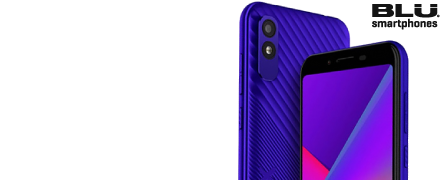
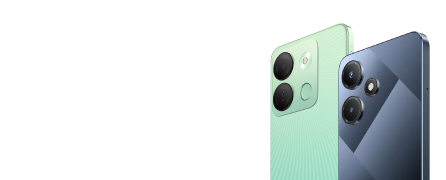
Ajustes - secciones - marcas

diff --git a/components/partials/home/brand-section.jsx b/components/partials/home/brand-section.jsx
@@ -9,7 +9,7 @@ function BrandSection () {
             <div className="container">
                 <h2 className="title title-line title-underline">Marcas En Las Que Confiamos</h2>
 
-                <div className="row cols-lg-6 cols-md-4 cols-sm-3 cols-2 gutter-xs">
+                <div className="row cols-lg-3 cols-md-4 cols-sm-3 cols-2 gutter-xs">
                     <div className="image-wrap">
                         <figure>
                             <ALink href="#">
@@ -36,32 +36,32 @@ function BrandSection () {
                             </ALink>
                         </figure>
                     </div>
-                    <div className="image-wrap">
-                        <figure>
-                            <ALink href="#">
-                                <LazyLoadImage
-                                    src="images/home/brand/3.jpg"
-                                    alt="Brand"
-                                    width="228"
-                                    height="100"
-                                    effect="opacity"
-                                />
-                            </ALink>
-                        </figure>
-                    </div>
-                    <div className="image-wrap">
-                        <figure>
-                            <ALink href="#">
-                                <LazyLoadImage
-                                    src="images/home/brand/4.jpg"
-                                    alt="Brand"
-                                    width="228"
-                                    height="100"
-                                    effect="opacity"
-                                />
-                            </ALink>
-                        </figure>
-                    </div>
+                    {/*<div className="image-wrap">*/}
+                    {/*    <figure>*/}
+                    {/*        <ALink href="#">*/}
+                    {/*            <LazyLoadImage*/}
+                    {/*                src="images/home/brand/3.jpg"*/}
+                    {/*                alt="Brand"*/}
+                    {/*                width="228"*/}
+                    {/*                height="100"*/}
+                    {/*                effect="opacity"*/}
+                    {/*            />*/}
+                    {/*        </ALink>*/}
+                    {/*    </figure>*/}
+                    {/*</div>*/}
+                    {/*<div className="image-wrap">*/}
+                    {/*    <figure>*/}
+                    {/*        <ALink href="#">*/}
+                    {/*            <LazyLoadImage*/}
+                    {/*                src="images/home/brand/4.jpg"*/}
+                    {/*                alt="Brand"*/}
+                    {/*                width="228"*/}
+                    {/*                height="100"*/}
+                    {/*                effect="opacity"*/}
+                    {/*            />*/}
+                    {/*        </ALink>*/}
+                    {/*    </figure>*/}
+                    {/*</div>*/}
                     <div className="image-wrap">
                         <figure>
                             <ALink href="#">
@@ -75,84 +75,84 @@ function BrandSection () {
                             </ALink>
                         </figure>
                     </div>
-                    <div className="image-wrap">
-                        <figure>
-                            <ALink href="#">
-                                <LazyLoadImage
-                                    src="images/home/brand/6.jpg"
-                                    alt="Brand"
-                                    width="228"
-                                    height="100"
-                                    effect="opacity"
-                                />
-                            </ALink>
-                        </figure>
-                    </div>
-                    <div className="image-wrap">
-                        <figure>
-                            <ALink href="#">
-                                <LazyLoadImage
-                                    src="images/home/brand/7.jpg"
-                                    alt="Brand"
-                                    width="228"
-                                    height="100"
-                                    effect="opacity"
-                                />
-                            </ALink>
-                        </figure>
-                    </div>
-                    <div className="image-wrap">
-                        <figure>
-                            <ALink href="#">
-                                <LazyLoadImage
-                                    src="images/home/brand/8.jpg"
-                                    alt="Brand"
-                                    width="228"
-                                    height="100"
-                                    effect="opacity"
-                                />
-                            </ALink>
-                        </figure>
-                    </div>
-                    <div className="image-wrap">
-                        <figure>
-                            <ALink href="#">
-                                <LazyLoadImage
-                                    src="images/home/brand/9.jpg"
-                                    alt="Brand"
-                                    width="228"
-                                    height="100"
-                                    effect="opacity"
-                                />
-                            </ALink>
-                        </figure>
-                    </div>
-                    <div className="image-wrap">
-                        <figure>
-                            <ALink href="#">
-                                <LazyLoadImage
-                                    src="images/home/brand/11.jpg"
-                                    alt="Brand"
-                                    width="228"
-                                    height="100"
-                                    effect="opacity"
-                                />
-                            </ALink>
-                        </figure>
-                    </div>
-                    <div className="image-wrap">
-                        <figure>
-                            <ALink href="#">
-                                <LazyLoadImage
-                                    src="images/home/brand/10.jpg"
-                                    alt="Brand"
-                                    width="228"
-                                    height="100"
-                                    effect="opacity"
-                                />
-                            </ALink>
-                        </figure>
-                    </div>
+                    {/*<div className="image-wrap">*/}
+                    {/*    <figure>*/}
+                    {/*        <ALink href="#">*/}
+                    {/*            <LazyLoadImage*/}
+                    {/*                src="images/home/brand/6.jpg"*/}
+                    {/*                alt="Brand"*/}
+                    {/*                width="228"*/}
+                    {/*                height="100"*/}
+                    {/*                effect="opacity"*/}
+                    {/*            />*/}
+                    {/*        </ALink>*/}
+                    {/*    </figure>*/}
+                    {/*</div>*/}
+                    {/*<div className="image-wrap">*/}
+                    {/*    <figure>*/}
+                    {/*        <ALink href="#">*/}
+                    {/*            <LazyLoadImage*/}
+                    {/*                src="images/home/brand/7.jpg"*/}
+                    {/*                alt="Brand"*/}
+                    {/*                width="228"*/}
+                    {/*                height="100"*/}
+                    {/*                effect="opacity"*/}
+                    {/*            />*/}
+                    {/*        </ALink>*/}
+                    {/*    </figure>*/}
+                    {/*</div>*/}
+                    {/*<div className="image-wrap">*/}
+                    {/*    <figure>*/}
+                    {/*        <ALink href="#">*/}
+                    {/*            <LazyLoadImage*/}
+                    {/*                src="images/home/brand/8.jpg"*/}
+                    {/*                alt="Brand"*/}
+                    {/*                width="228"*/}
+                    {/*                height="100"*/}
+                    {/*                effect="opacity"*/}
+                    {/*            />*/}
+                    {/*        </ALink>*/}
+                    {/*    </figure>*/}
+                    {/*</div>*/}
+                    {/*<div className="image-wrap">*/}
+                    {/*    <figure>*/}
+                    {/*        <ALink href="#">*/}
+                    {/*            <LazyLoadImage*/}
+                    {/*                src="images/home/brand/9.jpg"*/}
+                    {/*                alt="Brand"*/}
+                    {/*                width="228"*/}
+                    {/*                height="100"*/}
+                    {/*                effect="opacity"*/}
+                    {/*            />*/}
+                    {/*        </ALink>*/}
+                    {/*    </figure>*/}
+                    {/*</div>*/}
+                    {/*<div className="image-wrap">*/}
+                    {/*    <figure>*/}
+                    {/*        <ALink href="#">*/}
+                    {/*            <LazyLoadImage*/}
+                    {/*                src="images/home/brand/11.jpg"*/}
+                    {/*                alt="Brand"*/}
+                    {/*                width="228"*/}
+                    {/*                height="100"*/}
+                    {/*                effect="opacity"*/}
+                    {/*            />*/}
+                    {/*        </ALink>*/}
+                    {/*    </figure>*/}
+                    {/*</div>*/}
+                    {/*<div className="image-wrap">*/}
+                    {/*    <figure>*/}
+                    {/*        <ALink href="#">*/}
+                    {/*            <LazyLoadImage*/}
+                    {/*                src="images/home/brand/10.jpg"*/}
+                    {/*                alt="Brand"*/}
+                    {/*                width="228"*/}
+                    {/*                height="100"*/}
+                    {/*                effect="opacity"*/}
+                    {/*            />*/}
+                    {/*        </ALink>*/}
+                    {/*    </figure>*/}
+                    {/*</div>*/}
                     {/*<div className="image-wrap">*/}
                     {/*    <figure>*/}
                     {/*        <ALink href="#">*/}

diff --git a/components/common/partials/main-menu.jsx b/components/common/partials/main-menu.jsx
@@ -34,43 +34,43 @@ function MainMenu () {
                     </div>
 
             </div>
-            <div className="category category-icon">
-                <ALink href={ { pathname: "/shop", query: { brands: "blu" } } }>
-                    <figure className="categroy-media">
-                        <LazyLoadImage
-                            src="images/home/category/2.png"
-                            alt="Category"
-                            width="100"
-                            height="100"
-                        />
-                    </figure>
-                    <div className="category-content">
-                        <ALink href={ { pathname: "/shop", query: { tag: "celulares-blu" } } } >
-                        <h4 className="category-name">Celulares</h4>
-                        </ALink>
-                            <ALink href={ { pathname: "/shop", query: { tag: "accesorios-blu" } } } >
-                        <h4 className="category-name">Accesorios</h4>
-                            </ALink>
-                    </div>
-                </ALink>
-            </div>
-            <div className="category category-icon">
-                <ALink href={ { pathname: "/shop", query: { brands: "doogee" } } }>
-                    <figure className="categroy-media">
-                        <LazyLoadImage
-                            src="images/home/category/6.png"
-                            alt="Category"
-                            width="100"
-                            height="100"
-                        />
-                    </figure>
-                    <div className="category-content">
-                        <ALink href={ { pathname: "/shop", query: { tag: "celulares-doogee" } } } >
-                        <h4 className="category-name">Celulares</h4>
-                    </ALink>
-                    </div>
-                </ALink>
-            </div>
+            {/*<div className="category category-icon">*/}
+            {/*    <ALink href={ { pathname: "/shop", query: { brands: "blu" } } }>*/}
+            {/*        <figure className="categroy-media">*/}
+            {/*            <LazyLoadImage*/}
+            {/*                src="images/home/category/2.png"*/}
+            {/*                alt="Category"*/}
+            {/*                width="100"*/}
+            {/*                height="100"*/}
+            {/*            />*/}
+            {/*        </figure>*/}
+            {/*        <div className="category-content">*/}
+            {/*            <ALink href={ { pathname: "/shop", query: { tag: "celulares-blu" } } } >*/}
+            {/*            <h4 className="category-name">Celulares</h4>*/}
+            {/*            </ALink>*/}
+            {/*                <ALink href={ { pathname: "/shop", query: { tag: "accesorios-blu" } } } >*/}
+            {/*            <h4 className="category-name">Accesorios</h4>*/}
+            {/*                </ALink>*/}
+            {/*        </div>*/}
+            {/*    </ALink>*/}
+            {/*</div>*/}
+            {/*<div className="category category-icon">*/}
+            {/*    <ALink href={ { pathname: "/shop", query: { brands: "doogee" } } }>*/}
+            {/*        <figure className="categroy-media">*/}
+            {/*            <LazyLoadImage*/}
+            {/*                src="images/home/category/6.png"*/}
+            {/*                alt="Category"*/}
+            {/*                width="100"*/}
+            {/*                height="100"*/}
+            {/*            />*/}
+            {/*        </figure>*/}
+            {/*        <div className="category-content">*/}
+            {/*            <ALink href={ { pathname: "/shop", query: { tag: "celulares-doogee" } } } >*/}
+            {/*            <h4 className="category-name">Celulares</h4>*/}
+            {/*        </ALink>*/}
+            {/*        </div>*/}
+            {/*    </ALink>*/}
+            {/*</div>*/}
             <div className="category category-icon">
                 <ALink href={ { pathname: "/shop", query: { brands: "xiaomi" } } }>
                     <figure className="categroy-media">
@@ -91,23 +91,23 @@ function MainMenu () {
                     </div>
                 </ALink>
             </div>
-            <div className="category category-icon">
-                <ALink href={ { pathname: "/shop", query: { brands: "tecno" } } }>
-                    <figure className="categroy-media">
-                        <LazyLoadImage
-                            src="images/home/category/4.png"
-                            alt="Category"
-                            width="100"
-                            height="100"
-                        />
-                    </figure>
-                    <div className="category-content">
-                        <ALink href={ { pathname: "/shop", query: { tag: "celulares-tecno" } } } >
-                        <h4 className="category-name">Celulares</h4>
-                </ALink>
-                    </div>
-                </ALink>
-            </div>
+            {/*<div className="category category-icon">*/}
+            {/*    <ALink href={ { pathname: "/shop", query: { brands: "tecno" } } }>*/}
+            {/*        <figure className="categroy-media">*/}
+            {/*            <LazyLoadImage*/}
+            {/*                src="images/home/category/4.png"*/}
+            {/*                alt="Category"*/}
+            {/*                width="100"*/}
+            {/*                height="100"*/}
+            {/*            />*/}
+            {/*        </figure>*/}
+            {/*        <div className="category-content">*/}
+            {/*            <ALink href={ { pathname: "/shop", query: { tag: "celulares-tecno" } } } >*/}
+            {/*            <h4 className="category-name">Celulares</h4>*/}
+            {/*    </ALink>*/}
+            {/*        </div>*/}
+            {/*    </ALink>*/}
+            {/*</div>*/}
             <div className="category category-icon">
                 <ALink href={ { pathname: "/shop", query: { brands: "infinix" } } }>
                     <figure className="categroy-media">

diff --git a/components/partials/home/banner-one-section.jsx b/components/partials/home/banner-one-section.jsx
@@ -38,7 +38,7 @@ function BannerOneSection () {
                         </figure>
                         <div className="banner-content">
                             <h4 className="banner-subtitle text-white font-weight-semi-bold text-uppercase ls-s">Distribuidores</h4>
-                            <h3 className="banner-title text-white font-weight-normal ls-m">Autorizados de <strong className="text-uppercase">BLU</strong></h3>
+                            <h3 className="banner-title text-white font-weight-normal ls-m">Autorizados de <strong className="text-uppercase">INFINIX</strong></h3>
                             <span className="divider bg-white"></span>
                             <ALink href="/shop" className="btn btn-white btn-link btn-underline">Comprar ahora<i className="d-icon-arrow-right"></i></ALink>
                         </div>
